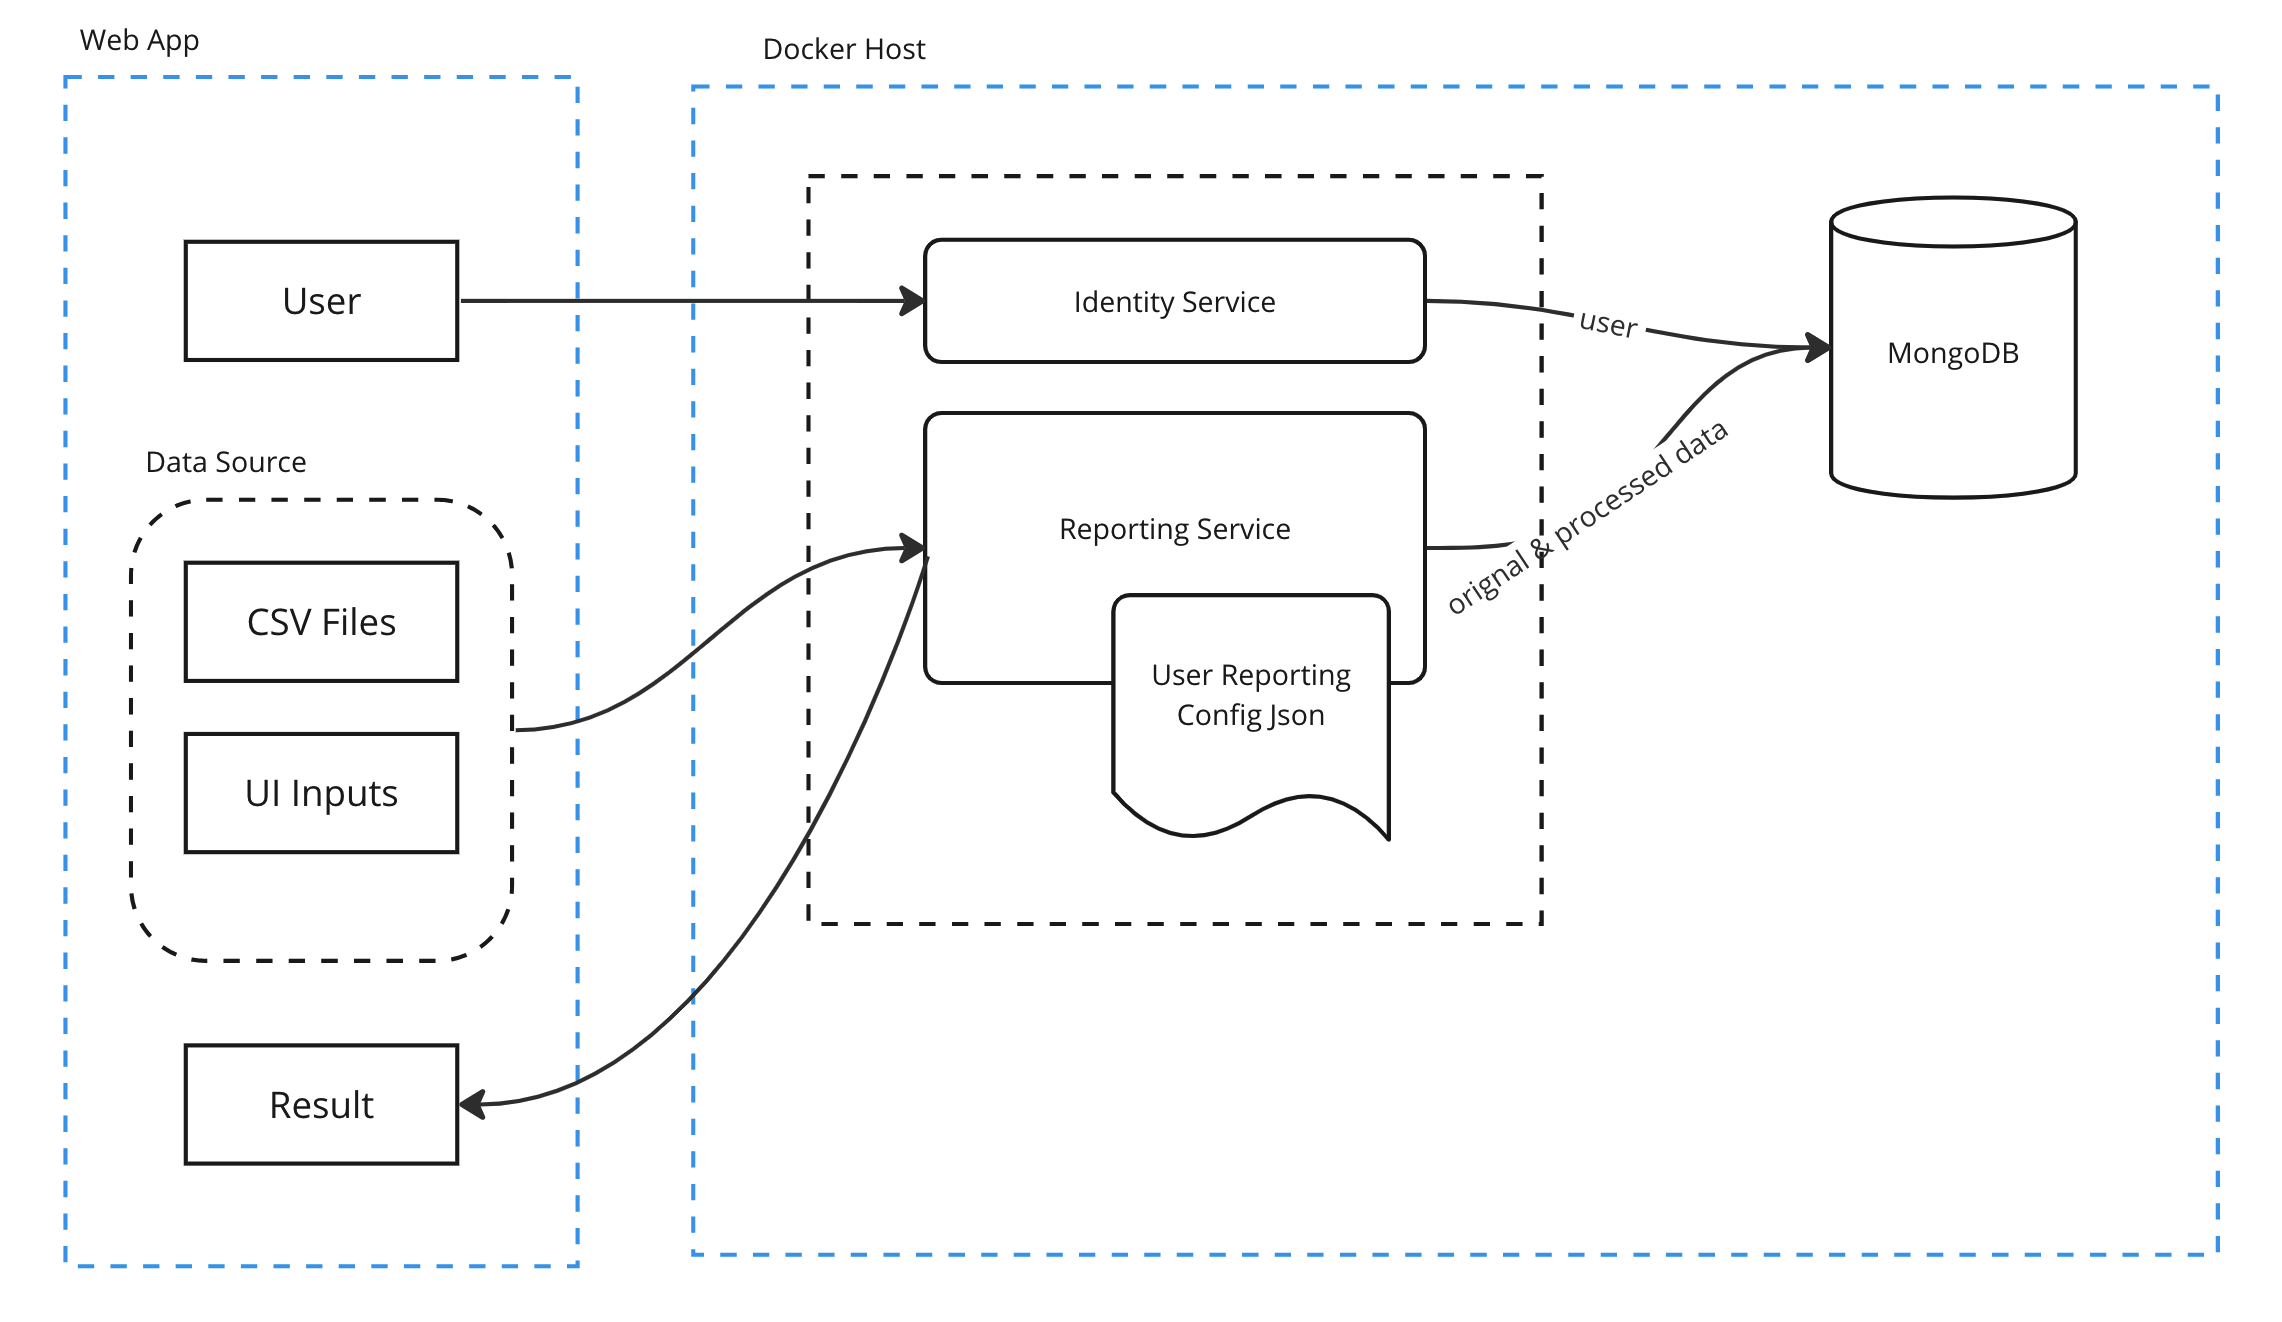
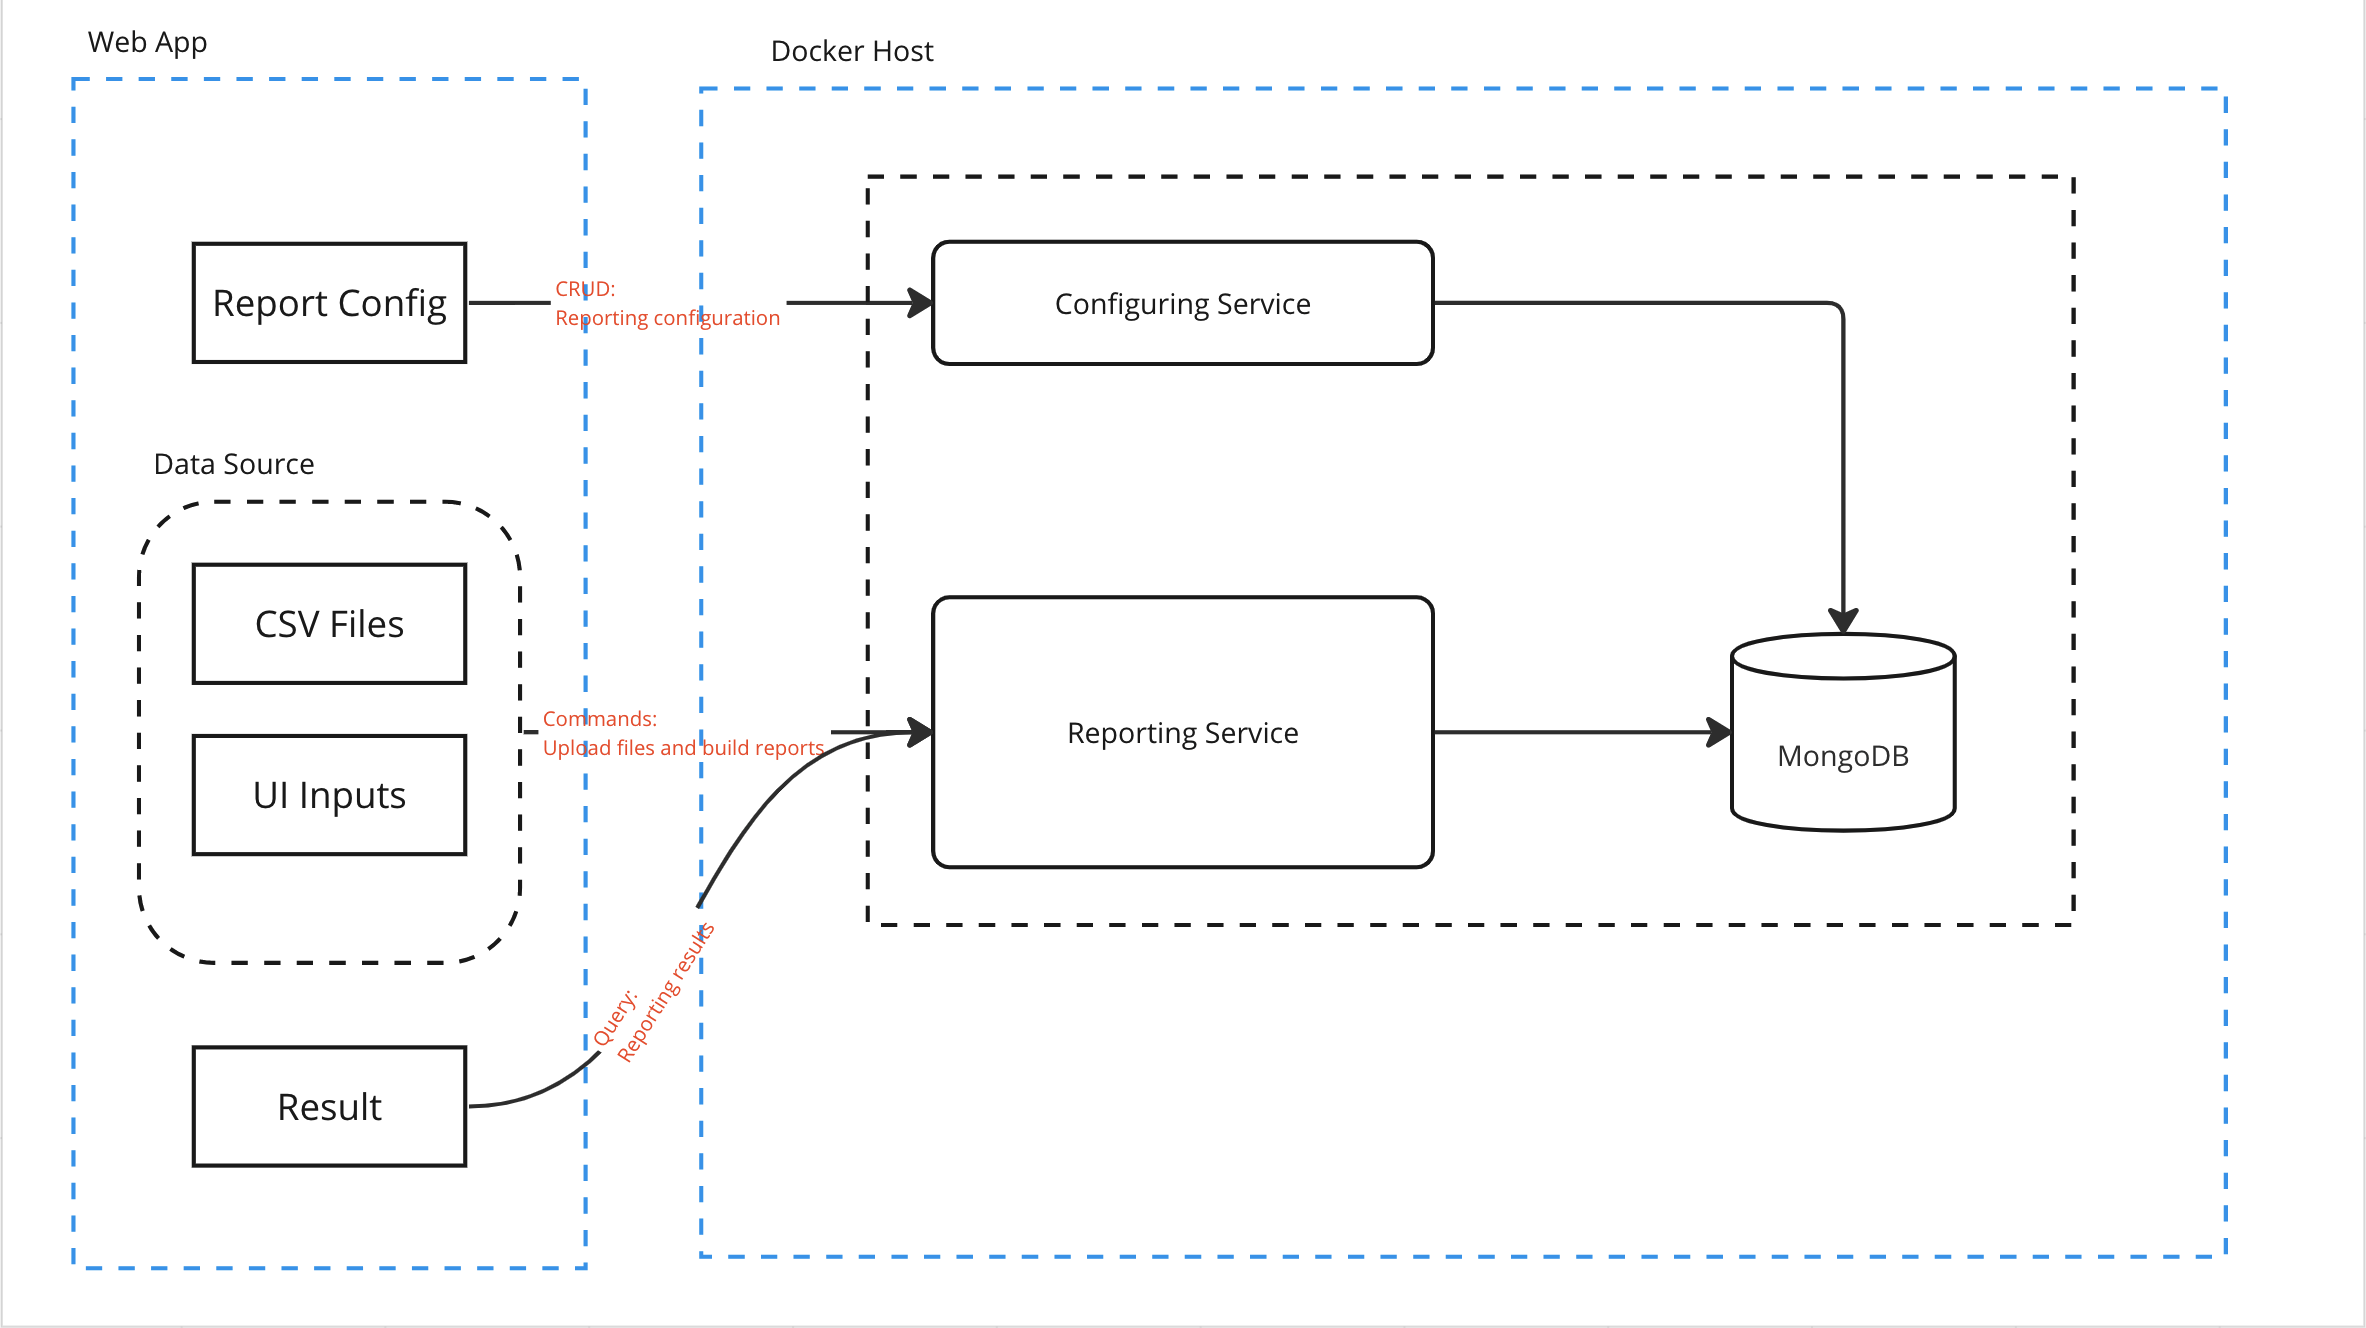
update the architecture

diff --git a/README.md b/README.md
@@ -9,26 +9,34 @@ A financial reporting tool
 
 There are 2 services:
 
-- Identity Service: It manages the user. Authentication is not included.
+- Configuring Service:
 
-- Reporting Service: It's composed by 2 parts
+  It manages the reporting configuration. The reporting configuration indicates how the report is created from the data source.
 
-  - **Reporting Controller**: It has 2 endpoint
+  It's a CRUD API.
 
-    - `POST`: It receives the data sources from the web app, clean up data, and write them into database.It returns nothing if success
-    
-    - `POST`: It receives the command that asks the App to read the data from database, create the report, and save the results into database
+  - Create a config: It must have a username and UID.
 
-    - `GET`: It returns the reporting results.
+  - Read a config
 
-  - **Reporting Service**:
+  - Update a config: Only the reporting configuration can be updated. Username and UID is immutable.
 
-    1. It maps the requests to the internal data structures.
+  - Delete a config: delete all the transactions and reports linked to it, too.
 
-    2. It creates the reports based on the local **user reporting config json**. This config file is attached to a user by his `user_id`
+- Reporting Service:
 
-    3. It saves the orginal data and reporting data into the database.
-    
+  It collects the transactions and build the report from them.
+
+  It follows CQRS architecture pattern.
+
+  - **Add transactions command**
+
+  - **Upload a CSV file of transaction command**
+
+  - **Build a report command**: It receives the command that asks the App to read the data from database, create the report, and save the results into database
+
+  - **Get a report query**: It returns the reporting result.
+
 ## Usage
 
 To run the project in Development mode on the local machine
@@ -46,5 +54,3 @@ Run the project locally. Please lanuch **MongoDB** on your local machine.
 ```code
 docker compose -f docker-compose-test.yml -f docker-compose-test.override.yml up
 ```
-
-The test results are saved under the `test-results` folder of `MonoApp`.
